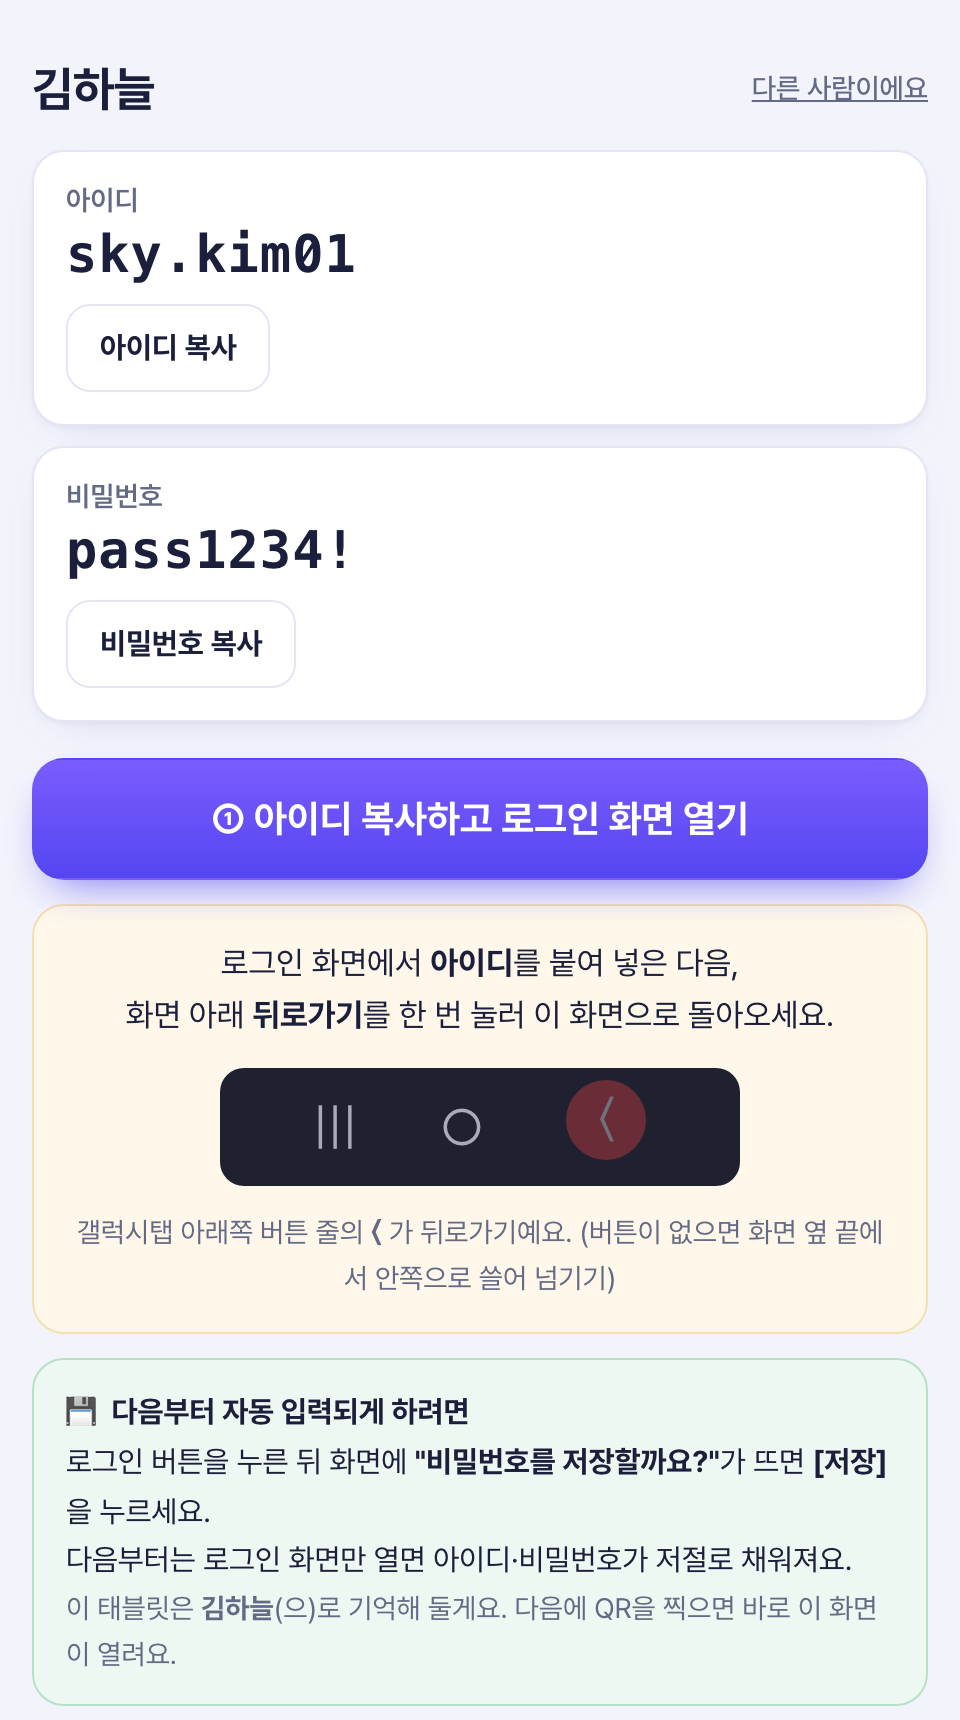
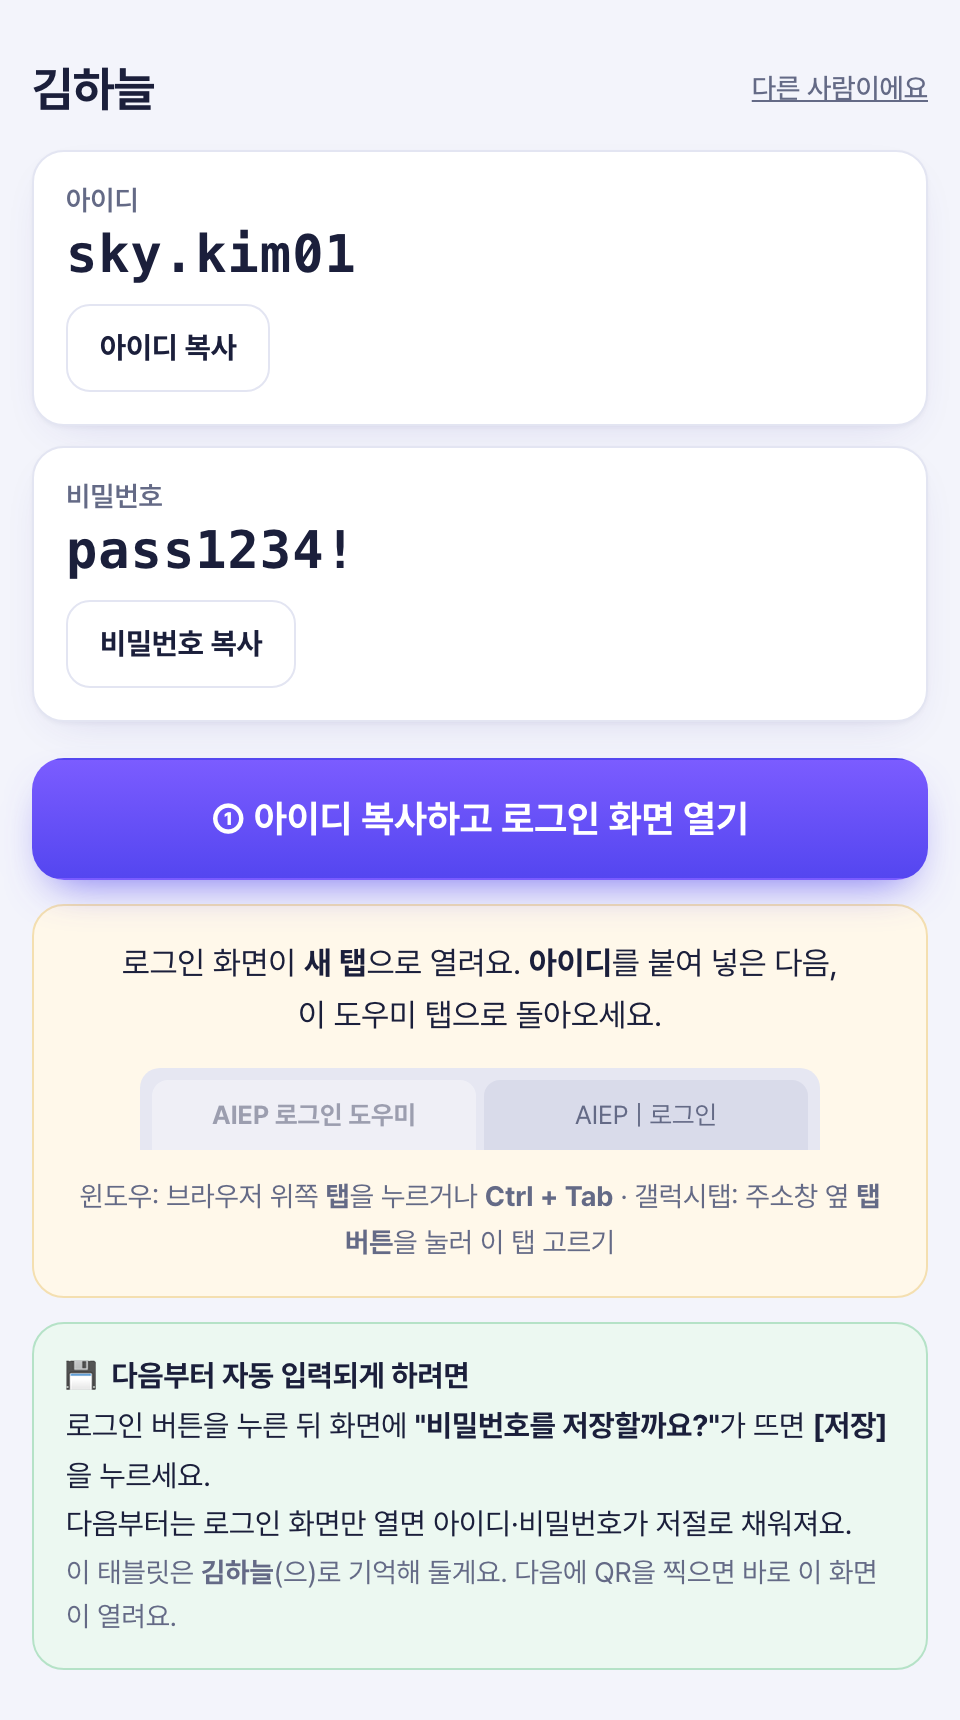
AIEP 로그인 화면을 새 탭으로 열고, ②에서 같은 탭을 다시 꺼내기(아이디 유지). 사용법 갱신

Changed region(s): [[0.0312, 0.5547, 0.9375, 0.986], [0.9375, 0.7395, 0.9688, 0.8012], [0.9375, 0.9552, 0.9688, 0.986]]

diff --git a/index.html b/index.html
@@ -72,6 +72,9 @@
   .toast { position:fixed; left:50%; bottom:24px; transform:translateX(-50%); background:#1b1f3b; color:#fff; padding:11px 18px; border-radius:99px; font-size:15px; opacity:0; transition:opacity .2s; pointer-events:none; box-shadow:0 10px 30px -10px rgba(0,0,0,.5); }
   .toast.on { opacity:1; }
   .howto { background:#fff8ea; border:1px solid #f4dfb0; border-radius:16px; padding:16px; margin:12px 0; line-height:1.65; text-align:center; }
+  .tabs { display:flex; gap:4px; justify-content:center; margin:12px auto; max-width:340px; background:#e6e7f2; padding:6px 6px 0; border-radius:10px 10px 0 0; }
+  .tabs .tb { flex:1; font-size:13px; padding:7px 8px; border-radius:8px 8px 0 0; color:var(--sub); background:#d9dbea; white-space:nowrap; overflow:hidden; text-overflow:ellipsis; }
+  .tabs .tb.on { background:#fff; color:var(--ink); font-weight:700; animation:blink 1s infinite; }
   .navbar { display:flex; justify-content:center; gap:42px; background:#1f2130; color:#aab; border-radius:12px; padding:10px; margin:12px auto; max-width:260px; font-size:24px; }
   .navbar .hl { color:#fff; background:#ef4444; border-radius:50%; width:40px; height:40px; line-height:40px; text-align:center; margin:-4px 0; animation:blink 1s infinite; }
   @keyframes blink { 50% { opacity:.35; } }
@@ -202,14 +205,14 @@
   <div id="step1">
     <button id="go1" class="pri big">① 아이디 복사하고 로그인 화면 열기</button>
     <div class="howto">
-      <div>로그인 화면에서 <b>아이디</b>를 붙여 넣은 다음,<br>화면 아래 <b>뒤로가기</b>를 한 번 눌러 이 화면으로 돌아오세요.</div>
-      <div class="navbar"><span>|||</span><span>○</span><span class="hl">〈</span></div>
-      <div class="muted">갤럭시탭 아래쪽 버튼 줄의 <b>〈</b> 가 뒤로가기예요. (버튼이 없으면 화면 옆 끝에서 안쪽으로 쓸어 넘기기)</div>
+      <div>로그인 화면이 <b>새 탭</b>으로 열려요. <b>아이디</b>를 붙여 넣은 다음,<br>이 도우미 탭으로 돌아오세요.</div>
+      <div class="tabs"><span class="tb on">AIEP 로그인 도우미</span><span class="tb">AIEP | 로그인</span></div>
+      <div class="muted">윈도우: 브라우저 위쪽 <b>탭</b>을 누르거나 <b>Ctrl + Tab</b> · 갤럭시탭: 주소창 옆 <b>탭 버튼</b>을 눌러 이 탭 고르기</div>
     </div>
   </div>
   <div id="step2" hidden>
     <p class="done">✅ 아이디를 넣었죠? 이제 비밀번호 차례예요.</p>
-    <button id="go2" class="pri big">② 비밀번호 복사하고 로그인 화면으로 돌아가기</button>
+    <button id="go2" class="pri big">② 비밀번호 복사하고 로그인 탭으로 가기</button>
     <div class="howto"><div>로그인 화면에서 <b>비밀번호</b> 칸에 붙여 넣고 <b>로그인</b>을 누르세요.</div></div>
     <button id="restart" class="link">처음부터 다시</button>
   </div>
@@ -242,6 +245,16 @@ const ls = { get: k => { try { return localStorage.getItem(k); } catch (e) { ret
              set: (k, v) => { try { v == null ? localStorage.removeItem(k) : localStorage.setItem(k, v); } catch (e) {} } };
 
 function toast(t) { const el = $('toast'); el.textContent = t; el.classList.add('on'); setTimeout(() => el.classList.remove('on'), 1600); }
+
+// 탭이 바뀌기 전에 끝나야 하는 복사. execCommand 는 즉시 끝나고, clipboard API 도 지금(화면이 앞에 있을 때) 시작해 둔다.
+function copyNow(text) {
+  const ta = document.createElement('textarea'); ta.value = text; ta.setAttribute('readonly', ''); ta.style.position = 'fixed'; ta.style.opacity = '0';
+  document.body.appendChild(ta); ta.select(); ta.setSelectionRange(0, text.length);
+  let ok = false; try { ok = document.execCommand('copy'); } catch (e) {}
+  ta.remove();
+  try { navigator.clipboard.writeText(text).catch(() => {}); ok = true; } catch (e) {}
+  return ok;
+}
 
 async function copy(text) {
   try { await navigator.clipboard.writeText(text); return true; } catch (e) {}
@@ -292,31 +305,38 @@ const fixSite = s => (!s || /^https:\/\/(auth\.icedu\.kr\/login\/|ptl\.icedu\.kr
 function studentView(d, onOther) {
   d = Object.assign({}, d, { s: fixSite(d.s) });
   $('pick').hidden = true; $('self').hidden = true; $('student').hidden = false;
-  document.title = d.n + ' 로그인';
+  document.title = 'AIEP 로그인 도우미 · ' + d.n;
   $('sName').textContent = d.n; $('meName').textContent = d.n;
   $('sId').textContent = d.i; $('sPw').textContent = d.p;
   $('other').hidden = !onOther; $('other').onclick = onOther || null;
   $('cpId').onclick = async () => toast(await copy(d.i) ? '아이디를 복사했어요' : '복사가 안 돼요. 직접 입력해 주세요');
   $('cpPw').onclick = async () => toast(await copy(d.p) ? '비밀번호를 복사했어요' : '복사가 안 돼요. 직접 입력해 주세요');
   // 태블릿 키보드는 클립보드에 마지막 복사 1개만 남는 경우가 많다(갤럭시탭 실기기).
-  // 그래서 클립보드 1칸으로 끝나게: 아이디 복사 → 로그인 화면에 붙여넣기 → 뒤로가기 →
-  // 비밀번호 복사 → history.forward() 로 아이디가 들어 있는 그 로그인 화면으로 돌아간다.
+  // 그래서 클립보드 1칸으로 끝나게: 아이디 복사 → 로그인 화면(새 탭)에 붙여넣기 → 이 탭으로 돌아오기 →
+  // 비밀번호 복사 → 같은 이름의 로그인 탭을 다시 앞으로 꺼낸다(주소를 다시 열지 않아 아이디가 남는다).
+  // 새 탭은 클릭 처리 안에서 바로 열어야 팝업 차단에 안 걸리고, 복사는 탭이 바뀌기 전에 끝내야 한다.
+  const TAB = 'aiep-login';
   const KEY = 'aiep-step:' + d.n + ':' + d.i;
   const store = { get: () => { try { return sessionStorage.getItem(KEY); } catch (e) { return null; } },
                   set: v => { try { v ? sessionStorage.setItem(KEY, v) : sessionStorage.removeItem(KEY); } catch (e) {} } };
   const show = () => { const two = store.get() === '2'; $('step1').hidden = two; $('step2').hidden = !two; };
-  $('go1').onclick = async () => {
-    toast(await copy(d.i) ? '아이디를 복사했어요' : '복사가 안 돼요. 직접 입력해 주세요');
-    store.set('2');
-    setTimeout(() => { location.href = d.s; }, 700);
+  $('go1').onclick = () => {
+    const ok = copyNow(d.i);
+    store.set('2'); show();
+    const w = window.open(d.s, TAB);
+    if (!w) { toast('새 탭이 막혔어요. 이 화면에서 로그인 화면을 열게요'); setTimeout(() => { location.href = d.s; }, 900); return; }
+    toast(ok ? '아이디를 복사했어요' : '복사가 안 돼요. 직접 입력해 주세요');
   };
-  $('go2').onclick = async () => {
-    toast(await copy(d.p) ? '비밀번호를 복사했어요' : '복사가 안 돼요. 직접 입력해 주세요');
-    setTimeout(() => {
-      history.forward();
-      // 앞으로 갈 화면이 없으면(새로 연 경우) 로그인 화면을 새로 연다. 이때는 아이디를 다시 넣어야 한다.
-      setTimeout(() => { if (!document.hidden) location.href = d.s; }, 1200);
-    }, 500);
+  $('go2').onclick = () => {
+    const ok = copyNow(d.p);
+    // 이미 열린 로그인 탭이 있으면 주소를 바꾸지 않고 그 탭을 꺼낸다. 없으면 새로 연다(아이디를 다시 넣어야 함).
+    let w = window.open('', TAB);
+    if (w) {
+      let blank = true; try { blank = w.location.href === 'about:blank'; } catch (e) { blank = false; }
+      if (blank) w.location.href = d.s;
+      w.focus();
+    } else { setTimeout(() => { location.href = d.s; }, 900); }
+    toast(ok ? '비밀번호를 복사했어요' : '복사가 안 돼요. 직접 입력해 주세요');
   };
   $('restart').onclick = () => { store.set(null); show(); };
   window.onpageshow = show;

diff --git a/guide.html b/guide.html
@@ -111,8 +111,8 @@
   <div class="step stu-step">
     <div>
       <span class="n">2</span>
-      <h3>① 버튼 → 로그인 화면에 아이디 붙여넣기</h3>
-      <p><b>[① 아이디 복사하고 로그인 화면 열기]</b>를 누르면 아이디가 복사되고 AIEP 로그인 화면이 열려요. 아이디 칸을 길게 눌러 <b>붙여넣기</b>해요.</p>
+      <h3>① 버튼 → 새 탭 로그인 화면에 아이디 붙여넣기</h3>
+      <p><b>[① 아이디 복사하고 로그인 화면 열기]</b>를 누르면 아이디가 복사되고 AIEP 로그인 화면이 <b>새 탭</b>으로 열려요. 아이디 칸을 길게 눌러(윈도우는 Ctrl+V) <b>붙여넣기</b>해요.</p>
     </div>
     <div class="phone"><img src="guide/6_step1.png" alt="① 버튼 화면"></div>
   </div>
@@ -120,9 +120,9 @@
   <div class="step stu-step">
     <div>
       <span class="n">3</span>
-      <h3>뒤로가기 한 번</h3>
-      <p>아이디를 넣었으면 화면 아래 <b>뒤로가기(〈)</b>를 한 번 눌러 도우미 화면으로 돌아와요.</p>
-      <div class="tip">갤럭시탭은 클립보드에 마지막 복사 1개만 남아서, 아이디와 비밀번호를 한 번씩 나눠 붙여 넣는 거예요.<br>윈도우는 키보드 <b>Alt + ←</b> 또는 브라우저의 ← 버튼이 뒤로가기예요.</div>
+      <h3>도우미 탭으로 돌아오기</h3>
+      <p>아이디를 넣었으면 <b>도우미 탭</b>으로 돌아와요. 로그인 탭은 닫지 마세요.</p>
+      <div class="tip">갤럭시탭은 클립보드에 마지막 복사 1개만 남아서, 아이디와 비밀번호를 한 번씩 나눠 붙여 넣는 거예요.<br>윈도우: 브라우저 위쪽 탭을 누르거나 <b>Ctrl + Tab</b> · 갤럭시탭: 주소창 옆 <b>탭 버튼</b>에서 도우미 탭 고르기</div>
     </div>
     <div class="phone"><img src="guide/7_login_id.png" alt="아이디가 들어간 로그인 화면"></div>
   </div>
@@ -131,7 +131,7 @@
     <div>
       <span class="n">4</span>
       <h3>② 버튼 → 비밀번호 붙여넣고 로그인</h3>
-      <p><b>[② 비밀번호 복사하고 로그인 화면으로 돌아가기]</b>를 누르면 아이디가 그대로 들어 있는 로그인 화면으로 돌아가요. 비밀번호 칸에 붙여 넣고 <b>[로그인]</b>을 눌러요.</p>
+      <p><b>[② 비밀번호 복사하고 로그인 탭으로 가기]</b>를 누르면 아이디가 그대로 들어 있는 로그인 탭으로 넘어가요. (안 넘어가면 직접 로그인 탭을 눌러요) 비밀번호 칸에 붙여 넣고 <b>[로그인]</b>을 눌러요.</p>
     </div>
     <div class="phone"><img src="guide/8_step2.png" alt="② 버튼 화면"></div>
   </div>
@@ -151,7 +151,7 @@
     <details open><summary>명단 없이 링크를 만들 수 있나요?</summary><p>입력칸을 비워 두고 [링크 만들기]를 누르면 <b>학생이 직접 입력하는 링크</b>가 만들어져요. 학생이 처음 한 번 자기 이름·아이디·비밀번호를 넣으면 그 태블릿에 저장돼요. 링크 안에는 계정이 없어서 공유해도 안전해요.</p></details>
     <details><summary>다른 학생이 같은 태블릿을 쓰면요?</summary><p>학생 화면 오른쪽 위 <b>[다른 사람이에요]</b>를 누르면 이름 고르기로 돌아가요.</p></details>
     <details><summary>"SSO ERROR"가 떠요.</summary><p>예전에 열어 둔 페이지가 남아 있어서 그래요. 링크를 새로 열거나 새로고침(윈도우는 Ctrl+F5)한 뒤 다시 해 주세요.</p></details>
-    <details><summary>② 버튼을 눌렀는데 아이디가 비어 있어요.</summary><p>도우미 화면을 새로 연 경우예요. 아이디를 다시 붙여 넣거나 [처음부터 다시]를 눌러 ①부터 해 주세요.</p></details>
+    <details><summary>② 버튼을 눌렀는데 아이디가 비어 있어요.</summary><p>로그인 탭을 닫았거나 도우미를 새로 연 경우예요. 아이디를 다시 붙여 넣거나 [처음부터 다시]를 눌러 ①부터 해 주세요.</p></details>
   </div>
 
   <p class="foot">화면 예시의 이름·아이디·비밀번호는 모두 연습용이에요.</p>
